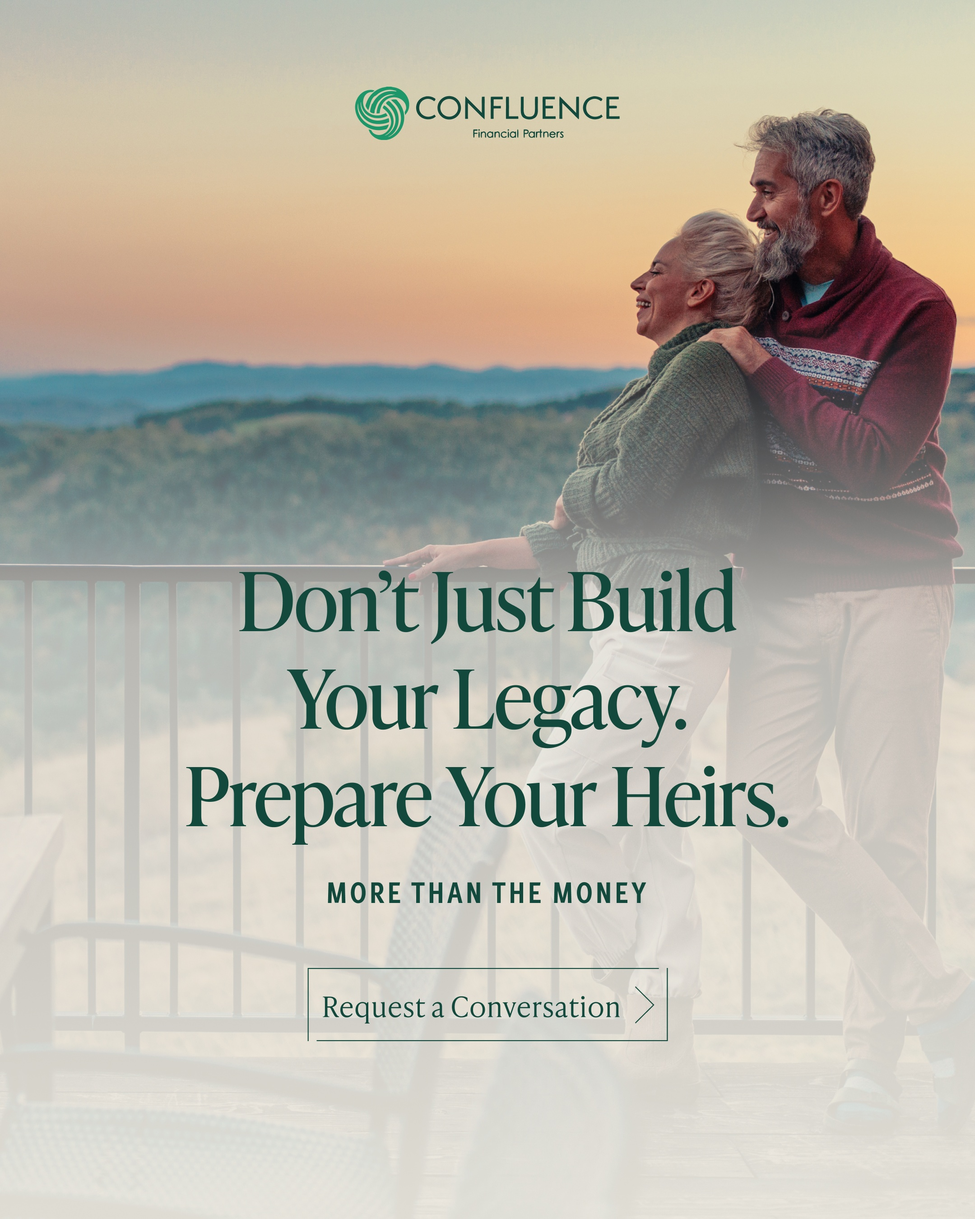
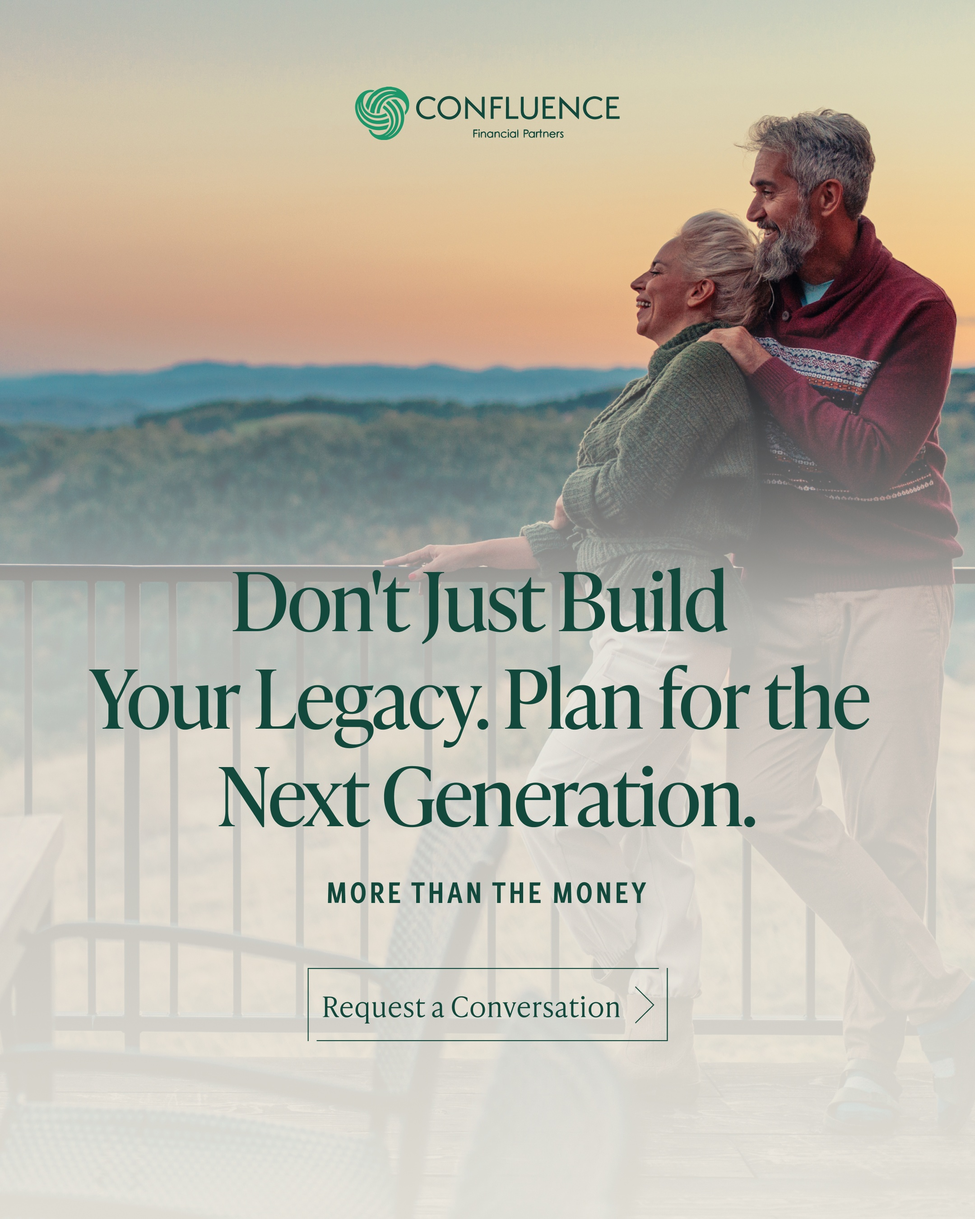
CFP vEdge: Ad 10 (Generational) headline -> 'Plan for the Next Generation' (Katie edit)

Changed region(s): [[0.0931, 0.4667, 0.8995, 0.6844]]

diff --git a/confluence-fp-consultation-vedge/index.html b/confluence-fp-consultation-vedge/index.html
@@ -1205,7 +1205,7 @@ let _activeImageVersion = {};
 let _placementIdx = {};
 let _feedbackCache = {};
 const CAMPAIGN_ID = 'confluence-fp-consultation-vedge';
-const ASSET_V = '1787332474';  // cache-bust token, stamped at bake time
+const ASSET_V = '1787332960';  // cache-bust token, stamped at bake time
 
 // ── Utility ────────────────────────────────────────────────────────────────
 function esc(s) {

diff --git a/confluence-fp-consultation-vedge/IMAGE-TEXT-PUNCHLIST.md b/confluence-fp-consultation-vedge/IMAGE-TEXT-PUNCHLIST.md
@@ -16,7 +16,7 @@ Source: `feedback` table, campaign `confluence-fp-consultation-vedge`.
 | 7 | Communication | An Annual Financial Check-In Isn't a Relationship / ADVICE SHOULDN'T GO QUIET | eyebrow → **"Financial planning is an ongoing conversation."** | ✅ placed (output 99) |
 | 8 | Retirement | $5 Million Saved. Is It Enough for Your Retirement? / FROM BUILDING TO LIVING | on-image → **"$5 Million Saved. Is It Enough for the Retirement You Envision?"** · eyebrow → **"From building wealth to living from it."** · link-bar headline matched | ✅ placed (output 101) + link headline updated |
 | 9 | Legacy | A Legacy Without a Plan Is Just a Wish. / BY DESIGN, OR BY DEFAULT? | headline → **"A Legacy Takes More Than Assets Alone."** | ☐ |
-| 10 | Generational | Don't Just Build Your Legacy. Prepare Your Heirs. / MORE THAN THE MONEY | headline → **"Don't Just Build Your Legacy. Plan for the Next Generation."** | ☐ |
+| 10 | Generational | Don't Just Build Your Legacy. Prepare Your Heirs. / MORE THAN THE MONEY | headline → **"Don't Just Build Your Legacy. Plan for the Next Generation."** | ✅ placed (output 103) |
 | 11 | Life-Stage | Life's Milestones Don't Come With a Financial Playbook. / LIFE RARELY STANDS STILL | (no comment) | ✓ |
 | 12 | Exit | I'm Ready to Sell My Business. What's Next? / THE OFFER WILL COME | → **"Preparing for life after the sale starts before the transaction."** | ☐ |
 | 13 | Philanthropic | A Big Charitable Gift Could Come With a Big Tax Opportunity. / GENEROSITY, WITH A PLAN | headline → **"Charitable giving can be an important part of a broader tax and financial planning strategy."** | ☐ |
